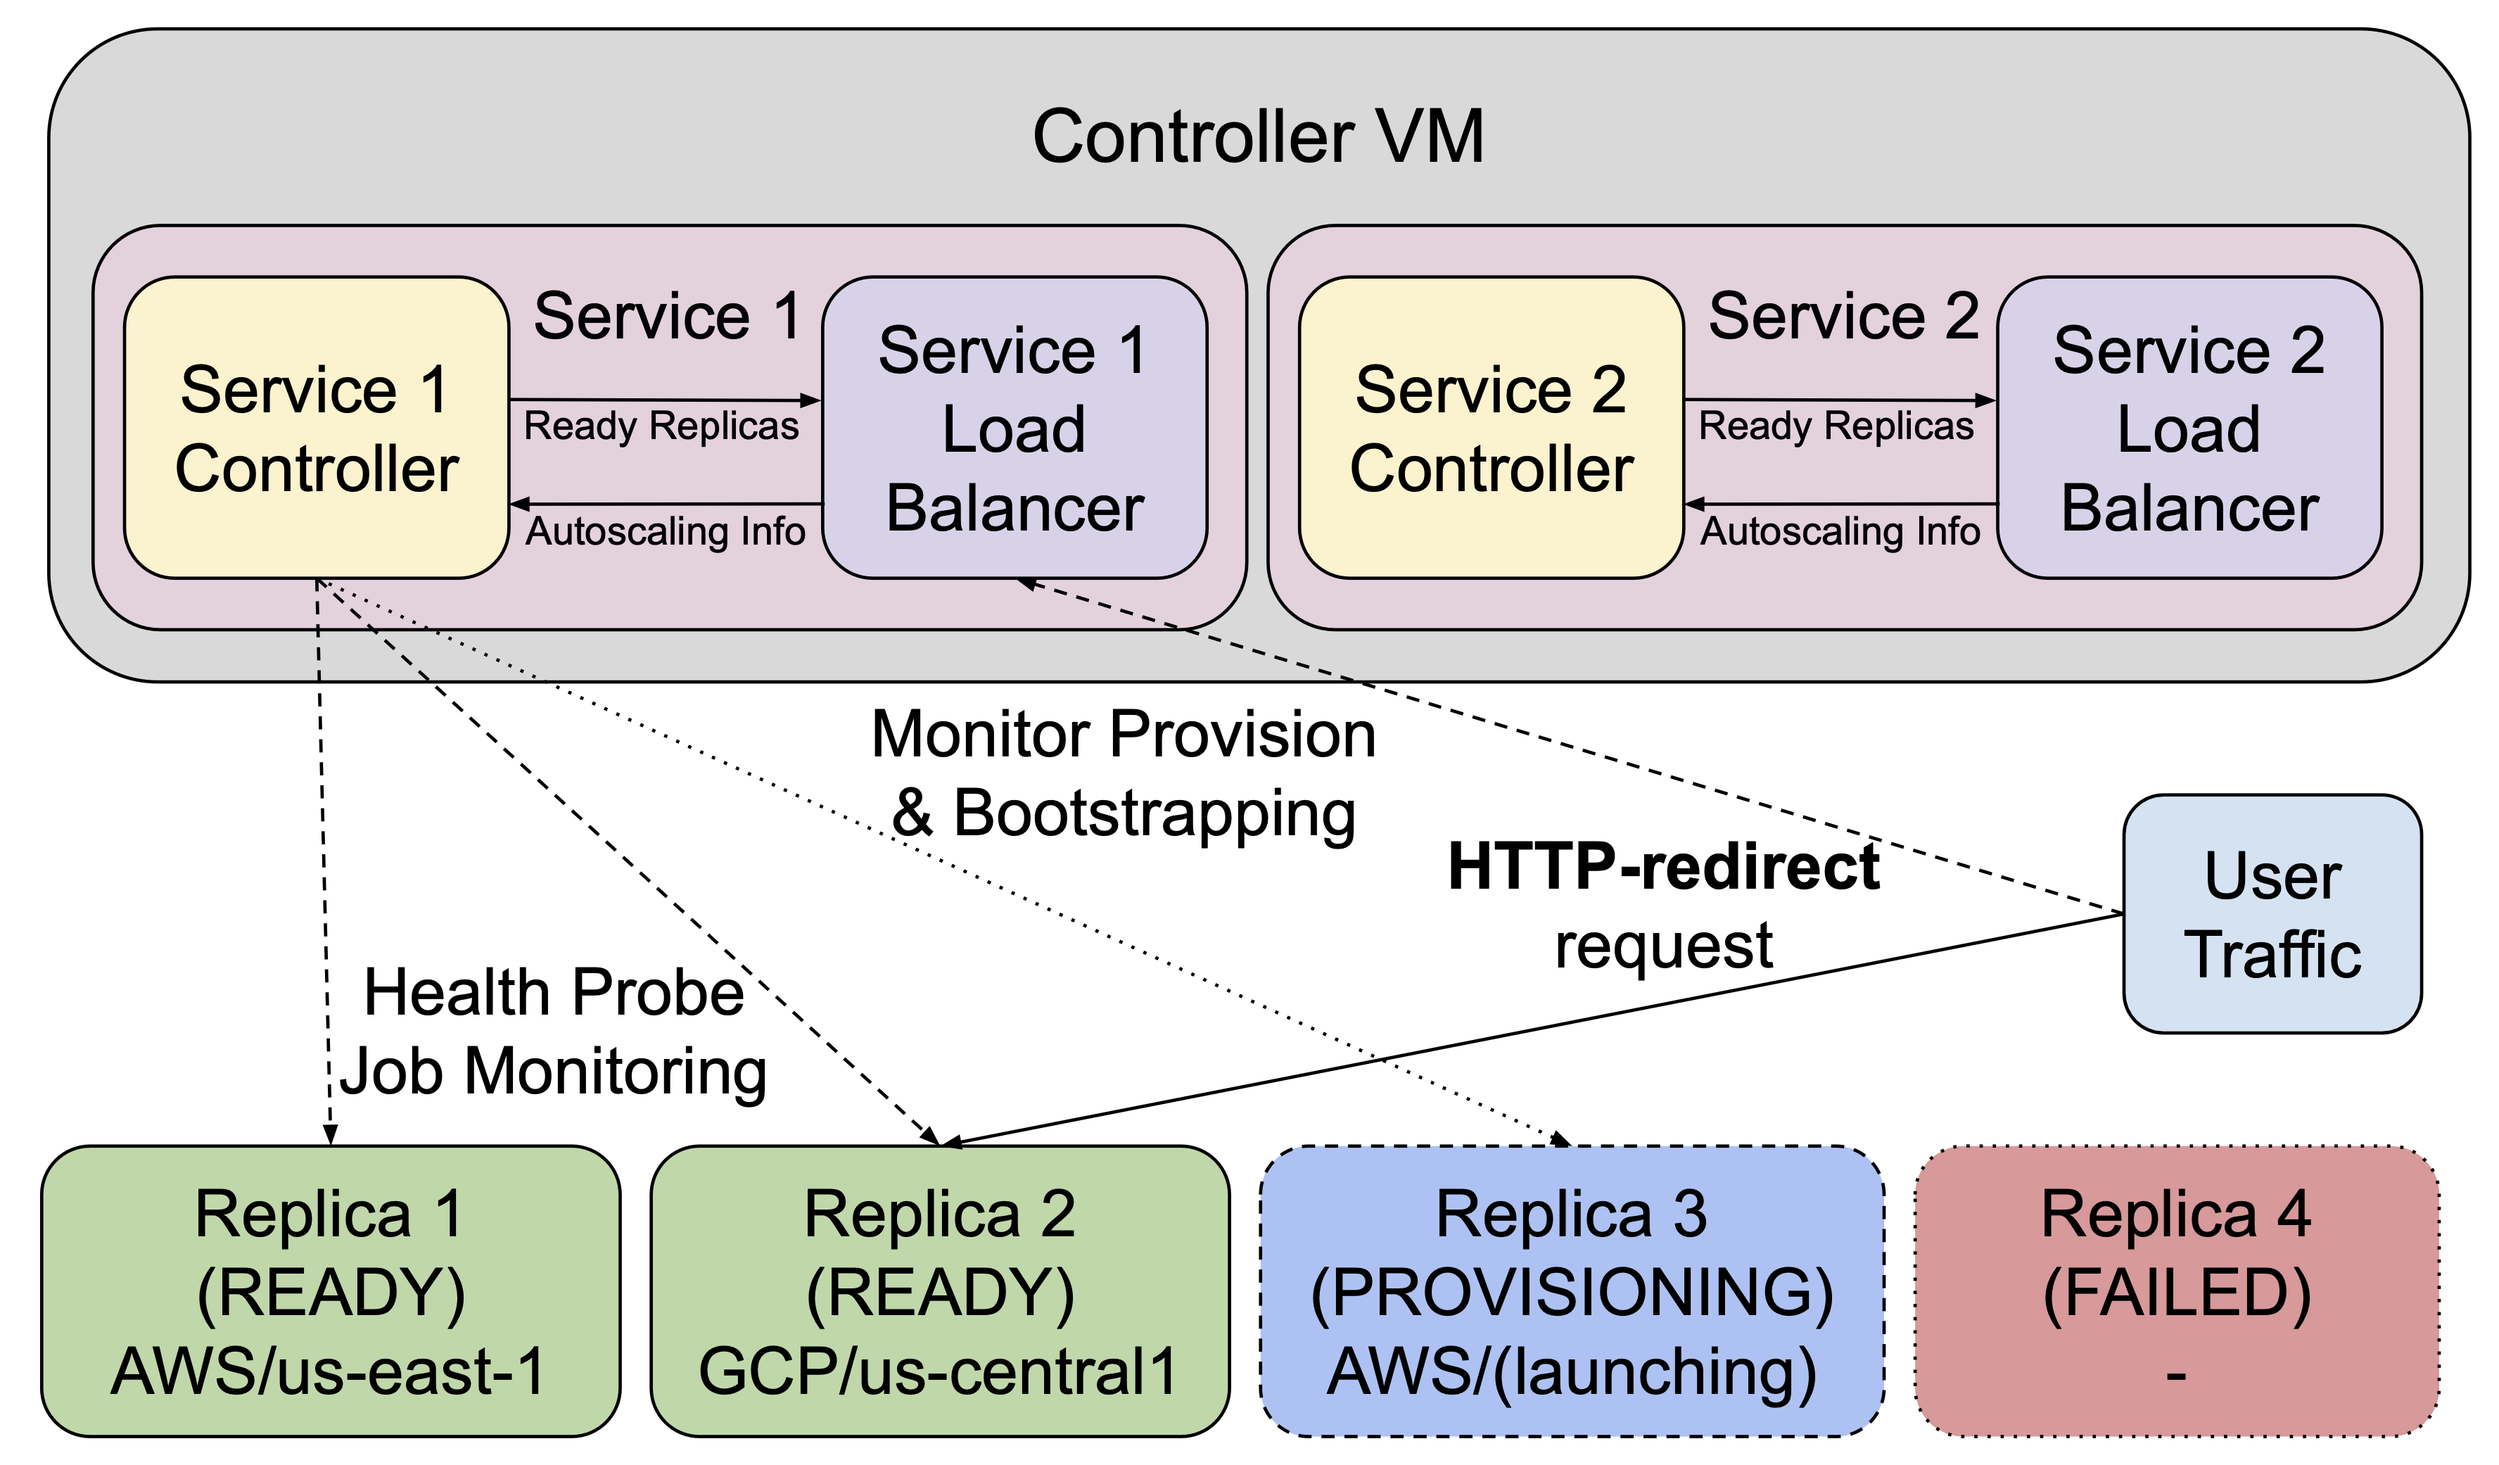
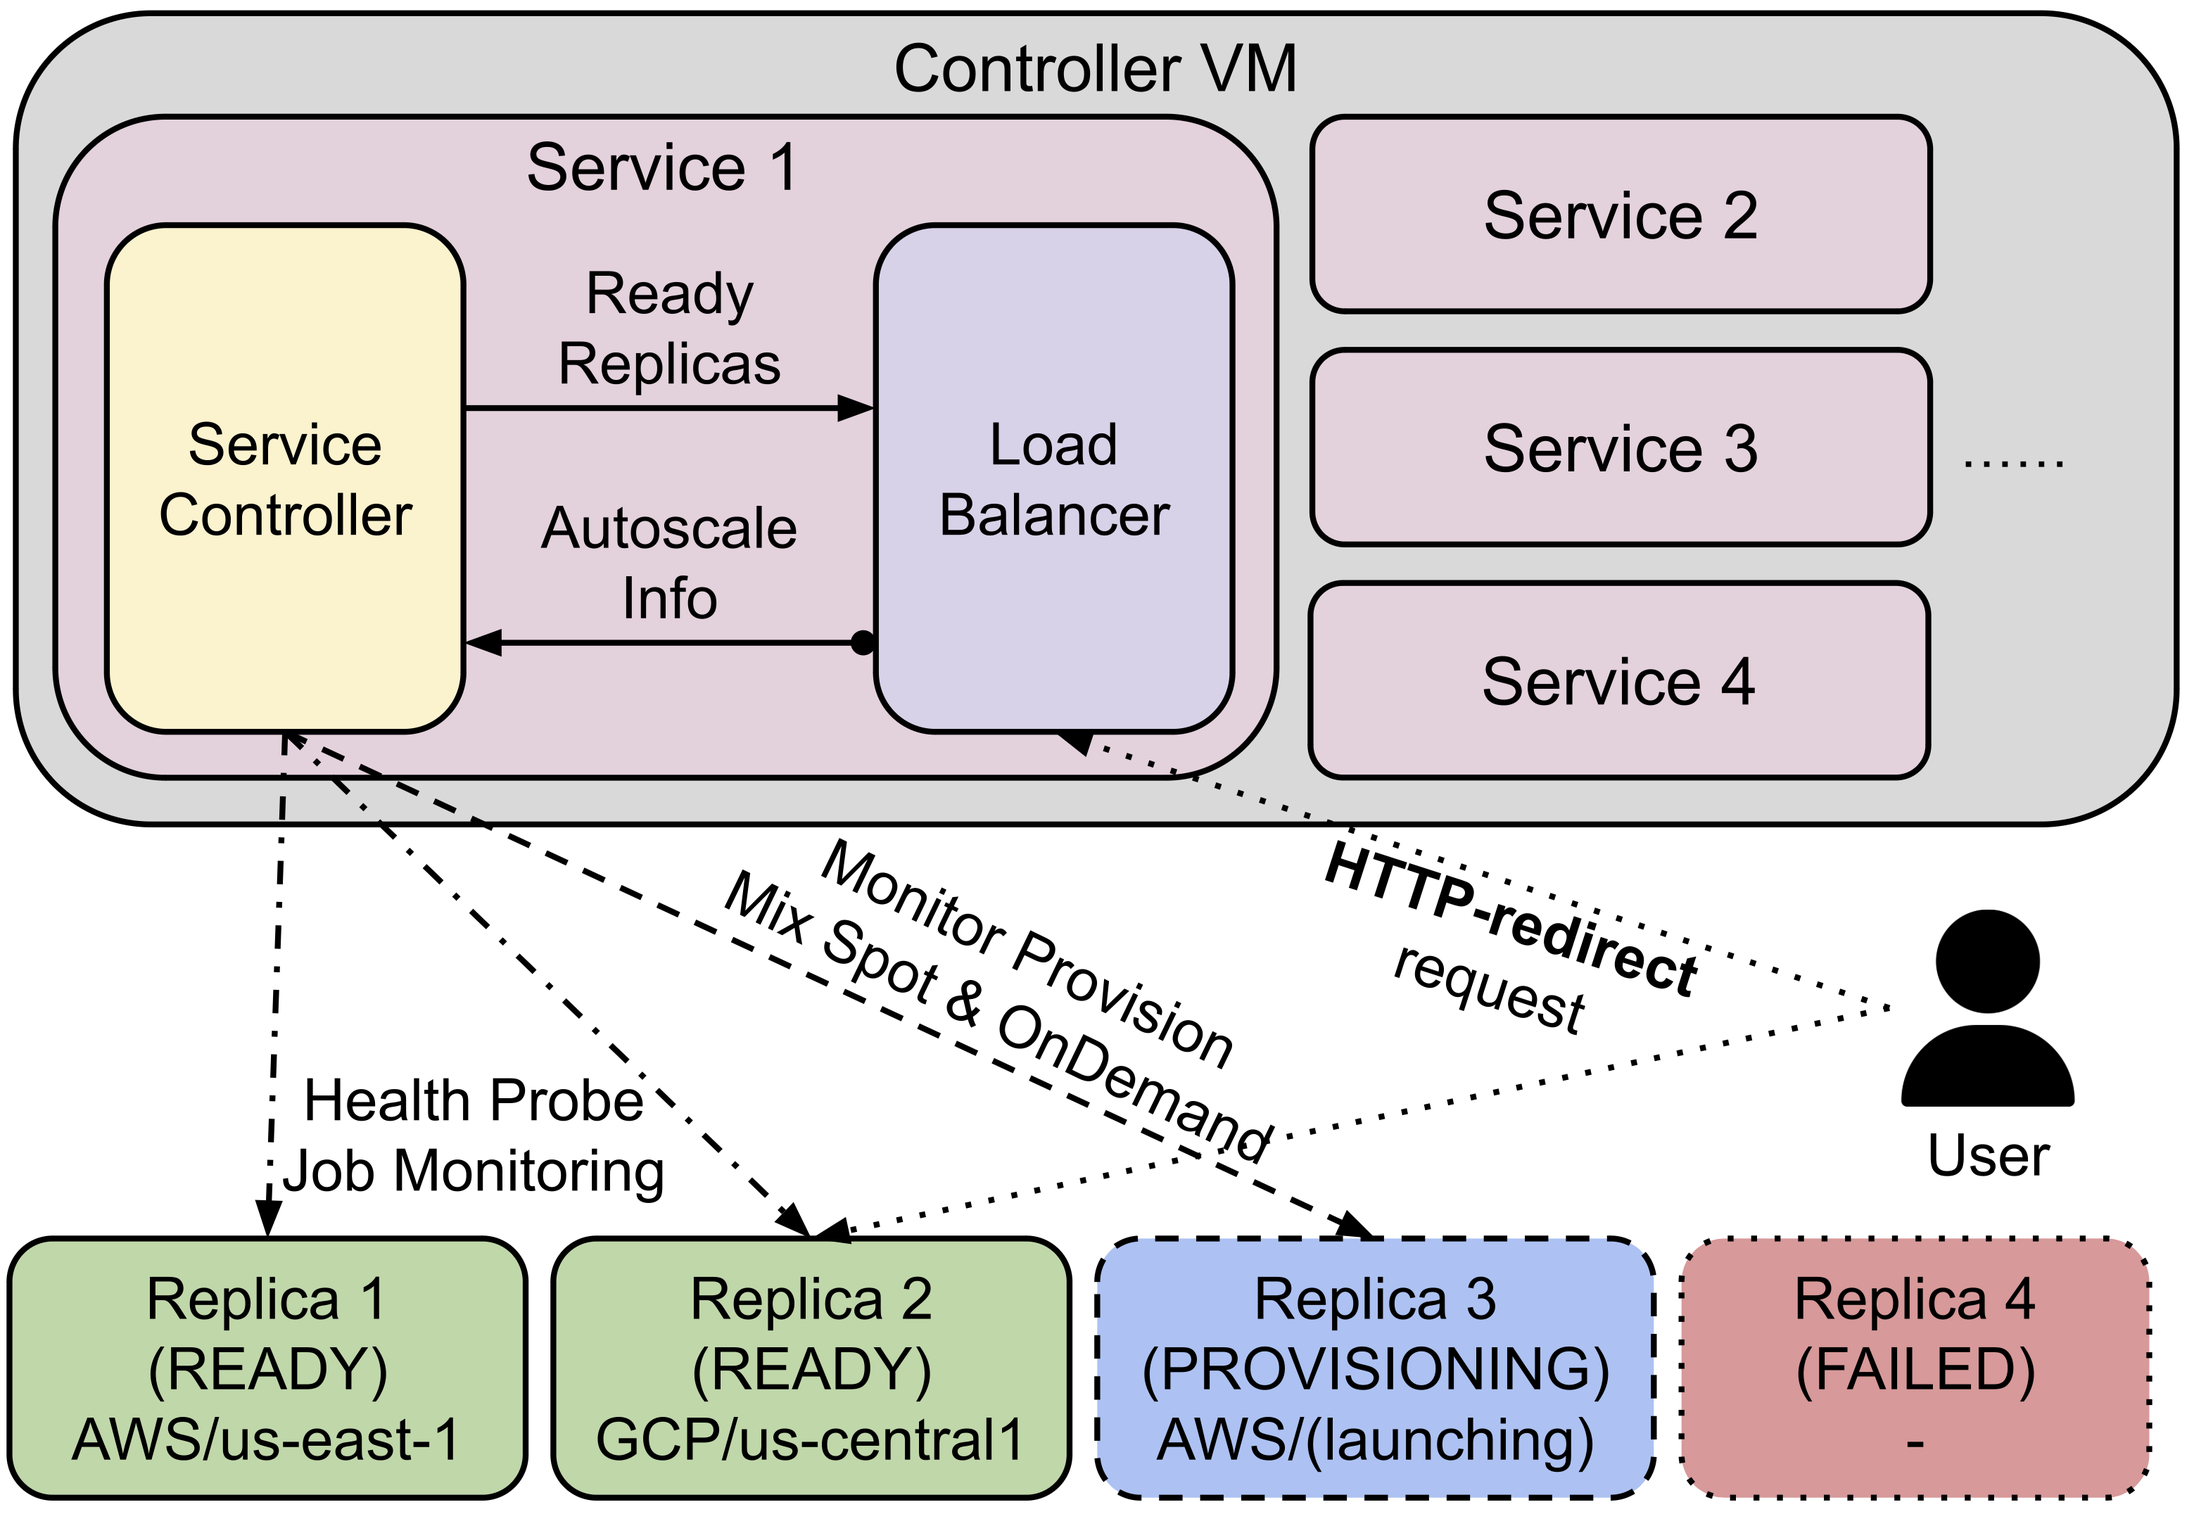
upd

diff --git a/docs/source/examples/sky-serve.rst b/docs/source/examples/sky-serve.rst
@@ -82,7 +82,7 @@ Notice that task YAML already have a running HTTP endpoint at 8080, and exposed 
 
     # hello-sky-serve.yaml
     service:
-      readiness_probe: /health
+      readiness_probe: /
       replicas: 2
 
     resources:
@@ -108,26 +108,14 @@ Under the hood, :code:`sky serve up`:
 #. Meanwhile, the controller provisions replica VMs which later run the services;
 #. Once any replica is ready, the requests sent to the Service Endpoint will be **HTTP-redirect** to one of the endpoint replicas.
 
-After the controller is provisioned, you'll see:
+After the controller is provisioned, you'll see the following in :code:`sky serve status` output:
 
-.. code-block:: console
+.. image:: ../images/sky-serve-status-output-provisioning.png
+    :width: 600
+    :align: center
+    :alt: sky-serve-status-output-provisioning
 
-    Service name: sky-service-e4fb
-    Endpoint URL: <endpoint-url>
-    To see detailed info:           sky serve status sky-service-e4fb [--endpoint]
-    To teardown the service:        sky serve down sky-service-e4fb
-
-    To see logs of a replica:       sky serve logs sky-service-e4fb [REPLICA_ID]
-    To see logs of load balancer:   sky serve logs --load-balancer sky-service-e4fb
-    To see logs of controller:      sky serve logs --controller sky-service-e4fb
-
-    To monitor replica status:      watch -n10 sky serve status sky-service-e4fb
-    To send a test request:         curl -L <endpoint-url>
-
-    SkyServe is spinning up your service now.
-    The replicas should be ready within a short time.
-
-Once any of the replicas becomes ready to serve, you can start sending requests to :code:`<endpoint-url>`. You can use :code:`watch -n10 sky serve status sky-service-e4fb` to monitor the latest status of the service. Once its status becomes :code:`READY`, you can start sending requests to :code:`<endpoint-url>`:
+Once any of the replicas becomes ready to serve, you can start sending requests to :code:`<endpoint-url>`. You can use :code:`watch -n10 sky serve status sky-service-b0a0` to monitor the latest status of the service. Once its status becomes :code:`READY`, you can start sending requests to :code:`<endpoint-url>`:
 
 .. code-block:: console
 
@@ -204,9 +192,9 @@ Below we show an end-to-end example of deploying a LLM model with Sky Serve. We'
       python -u -m fastchat.serve.openai_api_server --host 0.0.0.0 --port 8080 | tee ~/openai_api_server.log
 
     envs:
-      MODEL_SIZE: 13
+      MODEL_SIZE: 7
 
-The above SkyPilot Task YAML will launch an OpenAI API endpoint with a 13B Vicuna model. This YAML can be used with :code:`sky launch` to launch a single replica of the service. By adding a :code:`service` section to the YAML, we can scale it into multiple replicas across multiple regions/clouds:
+The above SkyPilot Task YAML will launch an OpenAI API endpoint with a 7B Vicuna model. This YAML can be used with :code:`sky launch` to launch a single replica of the service. By adding a :code:`service` section to the YAML, we can scale it into multiple replicas across multiple regions/clouds:
 
 .. code-block:: yaml
 
@@ -221,30 +209,21 @@ The above SkyPilot Task YAML will launch an OpenAI API endpoint with a 13B Vicun
 
     # Here goes other task config
 
-Now you have a Service YAML that can be used with Sky Serve! Simply run :code:`sky serve up vicuna.yaml -n vicuna` to deploy the service (use :code:`-n` to give your service a name!). After a while, you'll see:
+Now you have a Service YAML that can be used with Sky Serve! Simply run :code:`sky serve up vicuna.yaml -n vicuna` to deploy the service (use :code:`-n` to give your service a name!). After a while, there will be an OpenAI Compatible API endpoint ready to accept traffic (:code:`44.201.113.28` in the following example):
 
-.. code-block:: console
+.. image:: ../images/sky-serve-status-vicuna-ready.png
+    :width: 600
+    :align: center
+    :alt: sky-serve-status-vicuna-ready
 
-    Service name: vicuna
-    Endpoint URL: <vicuna-url>
-    To see detailed info:           sky serve status vicuna [--endpoint]
-    To teardown the service:        sky serve down vicuna
-
-    To see logs of a replica:       sky serve logs vicuna [REPLICA_ID]
-    To see logs of load balancer:   sky serve logs --load-balancer vicuna
-    To see logs of controller:      sky serve logs --controller vicuna
-
-    To monitor replica status:      watch -n10 sky serve status vicuna
-    To send a test request:         curl -L <vicuna-url>
-
-After a while, there will be an OpenAI Compatible API endpoint ready to serve at :code:`<vicuna-url>`. Try out by the following simple chatbot Python script:
+Try out by the following simple chatbot Python script:
 
 .. code-block:: python
 
     import openai
 
     stream = True
-    model = 'vicuna-13b-v1.3' # This is aligned with the MODEL_SIZE env in the YAML
+    model = 'vicuna-7b-v1.3' # This is aligned with the MODEL_SIZE env in the YAML
     init_prompt = 'You are a helpful assistant.'
     history = [{'role': 'system', 'content': init_prompt}]
     endpoint = input('Endpoint: ')
